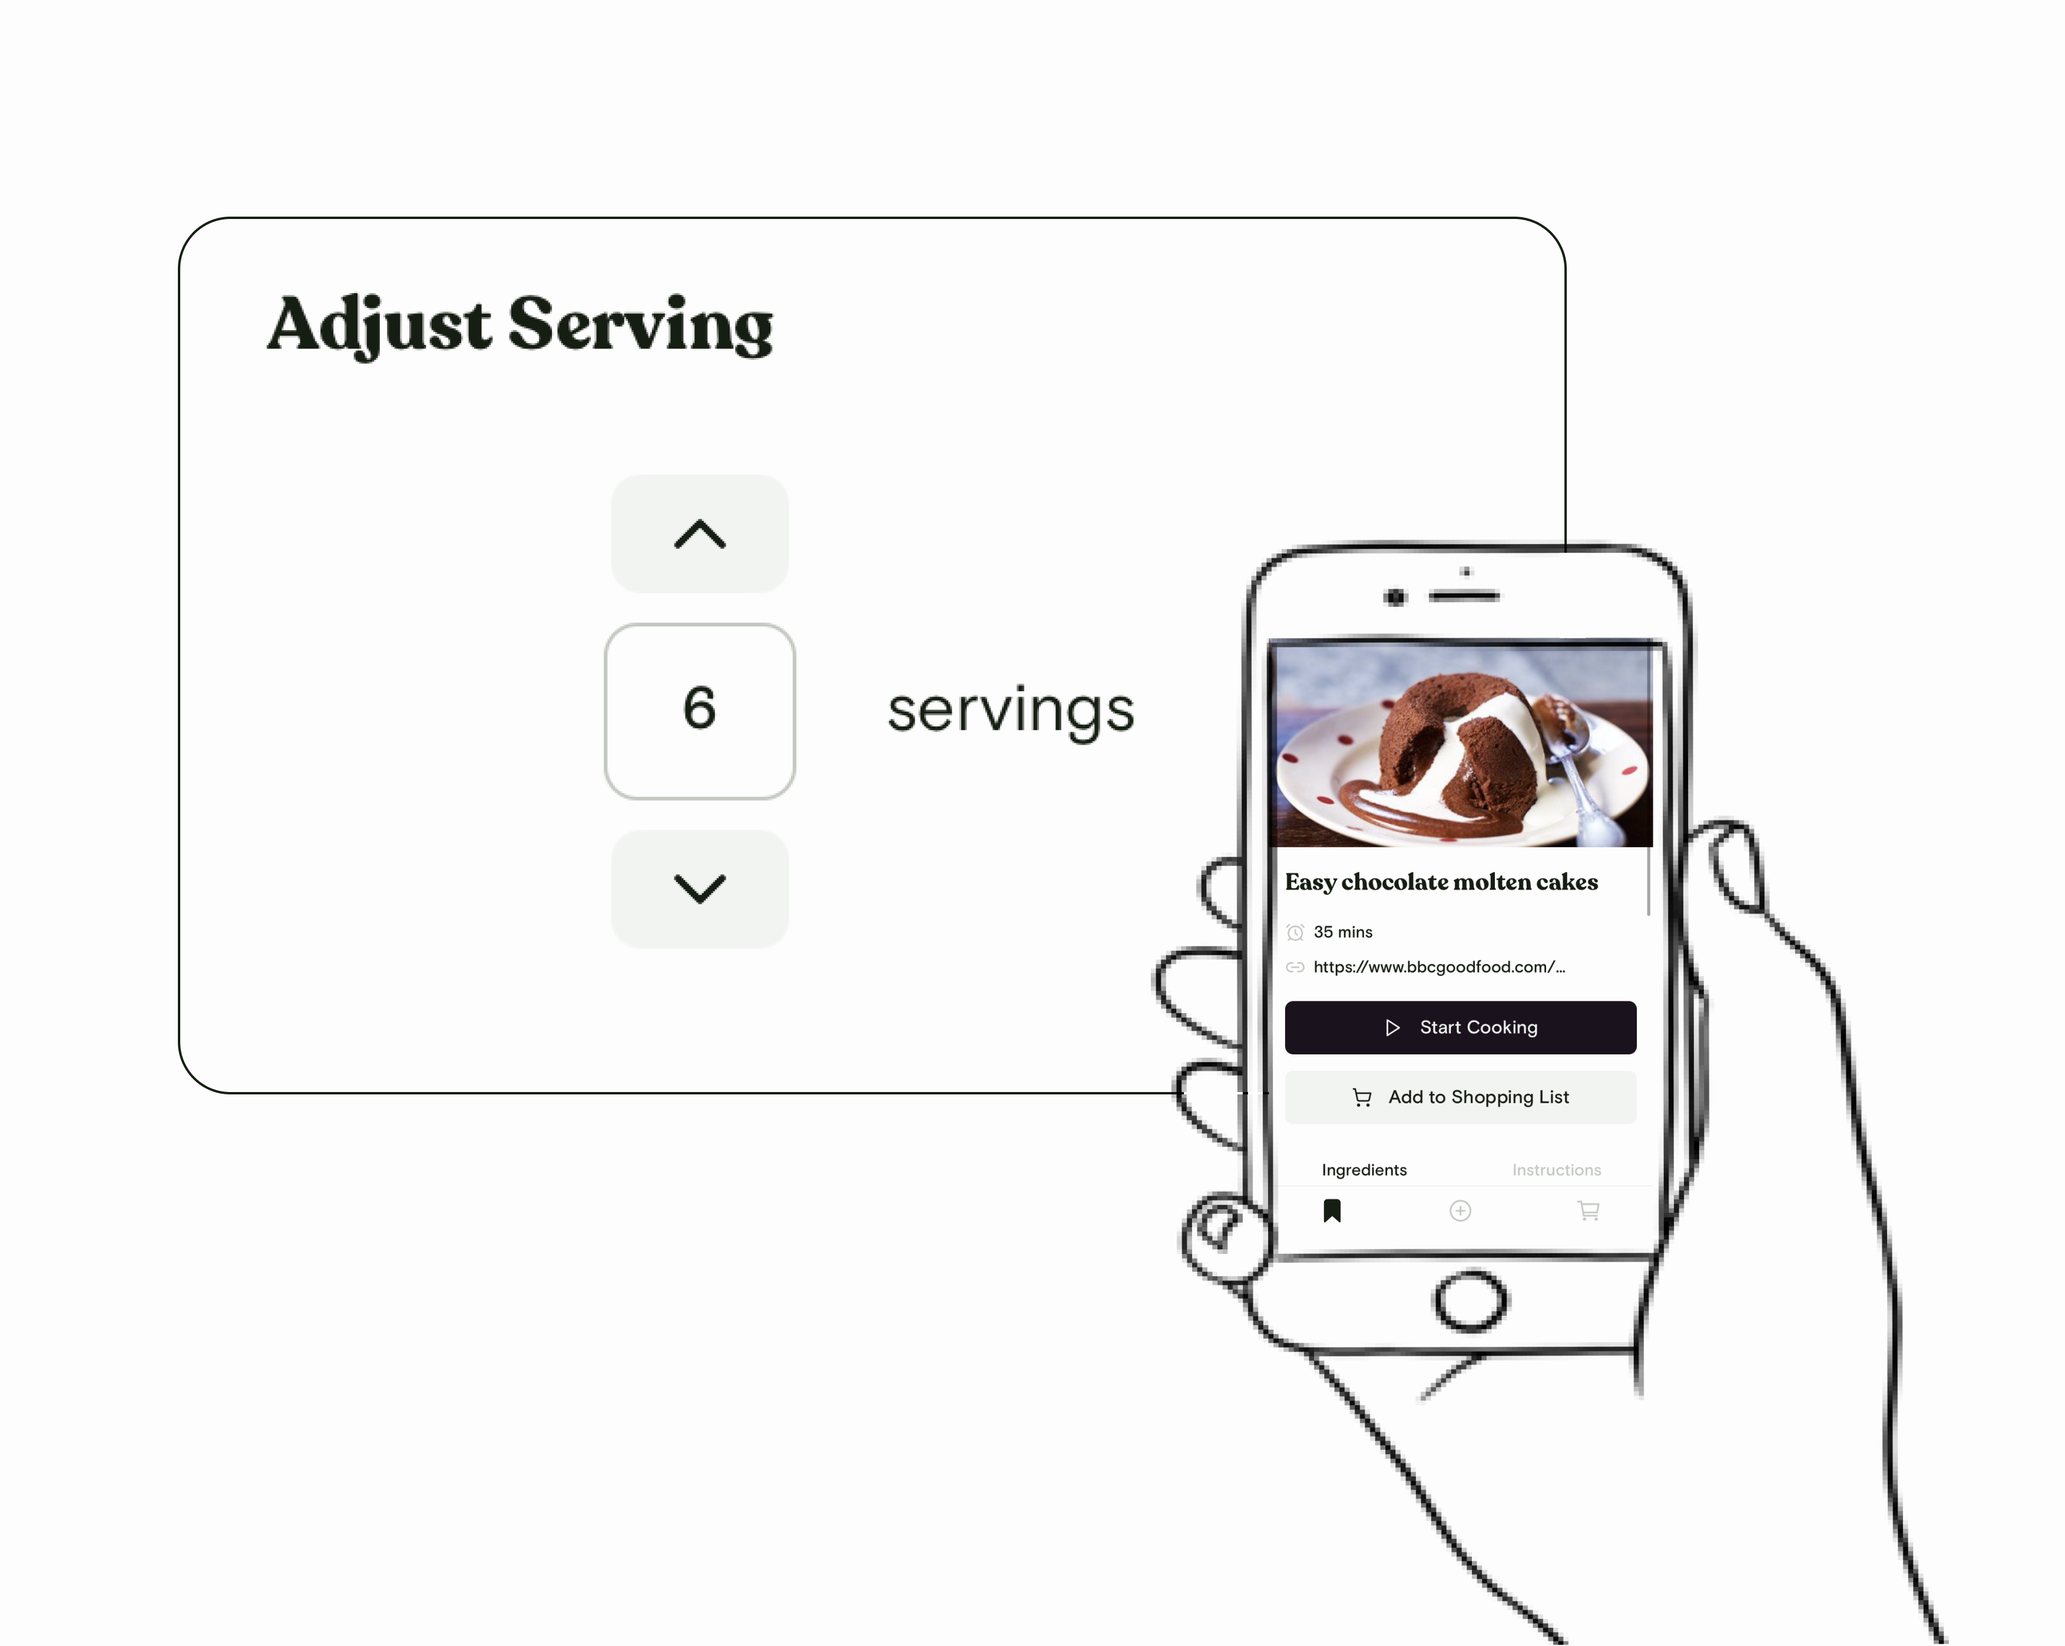
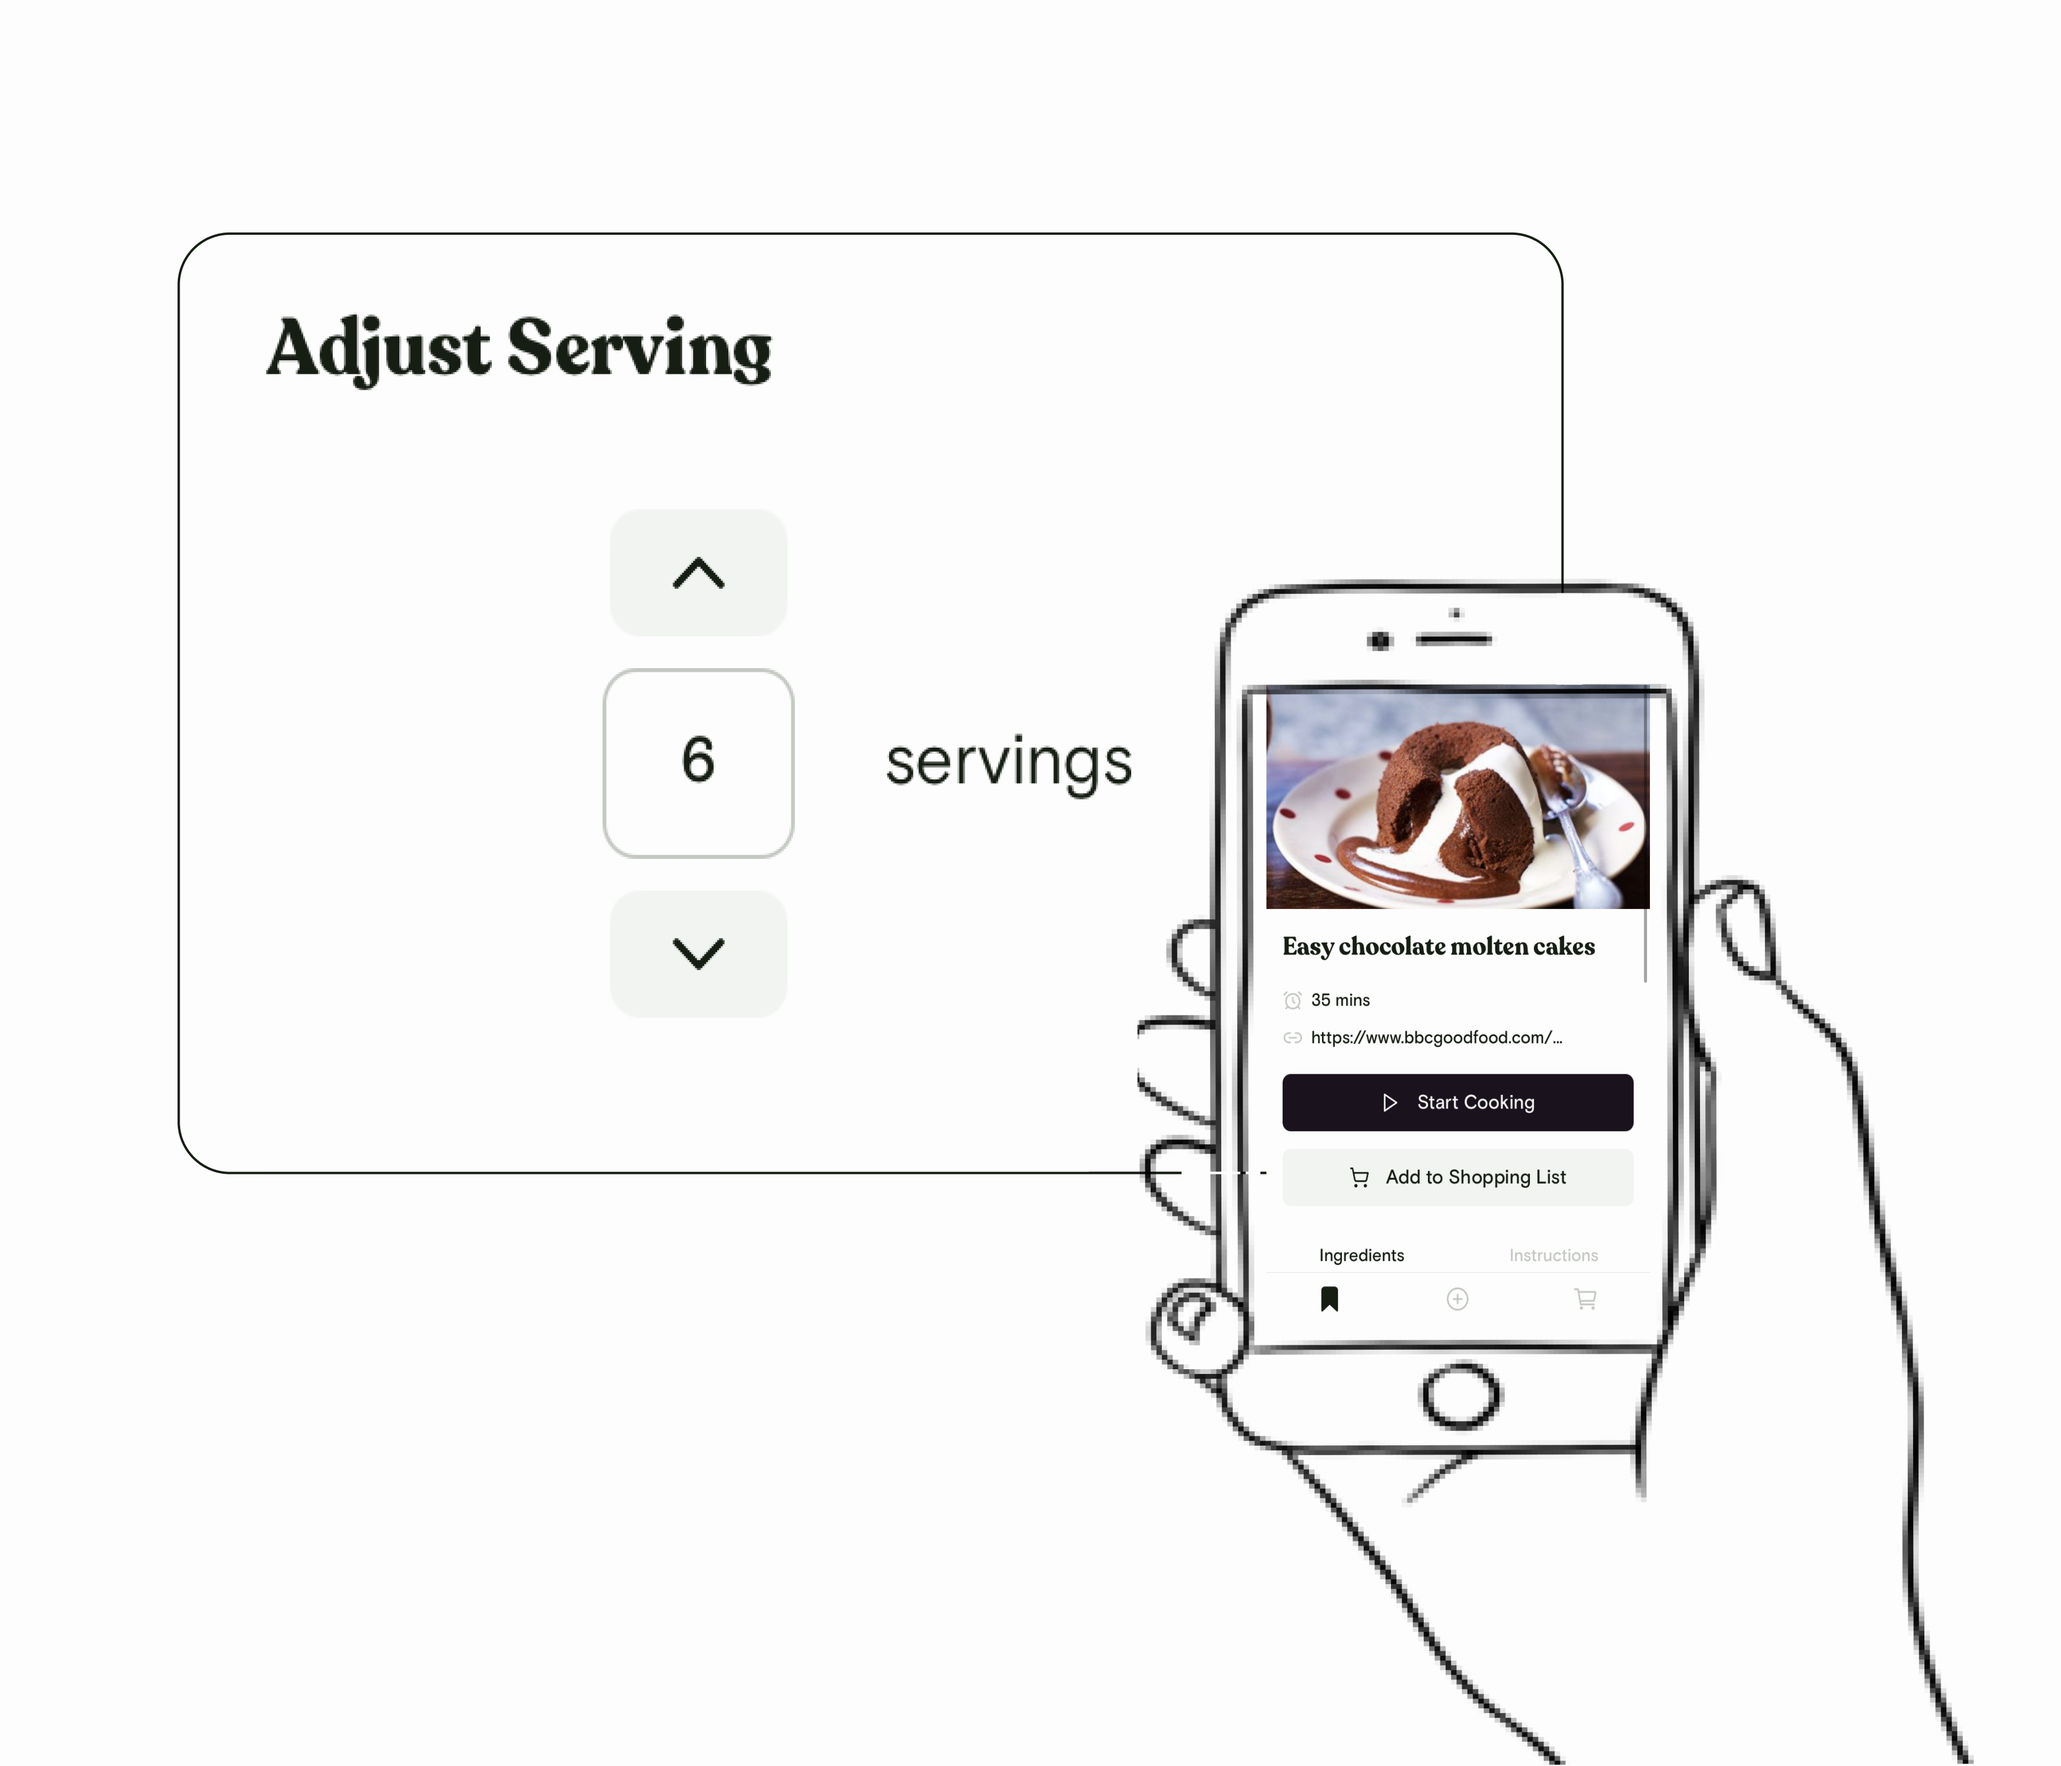
make graphics bigger

diff --git a/components/home/FeaturesSection.tsx b/components/home/FeaturesSection.tsx
@@ -154,14 +154,14 @@ export const FeatureGraphic = ({ feature }: { feature: { key: string; imagePath:
       initial={{ rotateY: 90, opacity: 0 }}
       animate={{ rotateY: 0, opacity: 1 }}
       exit={{ rotateY: -90, opacity: 0 }}
-      className="mx-4 my-auto sm:mx-12"
+      className="m-auto sm:mx-12"
     >
       <Image
         src={imageUrl}
         alt={`${feature.key} head image`}
-        width={1000}
-        height={500}
-        className="object-cover sm:h-auto sm:w-full"
+        width={3500}
+        height={3000}
+        className="m-auto h-auto w-full object-cover"
       />
     </motion.div>
   )
